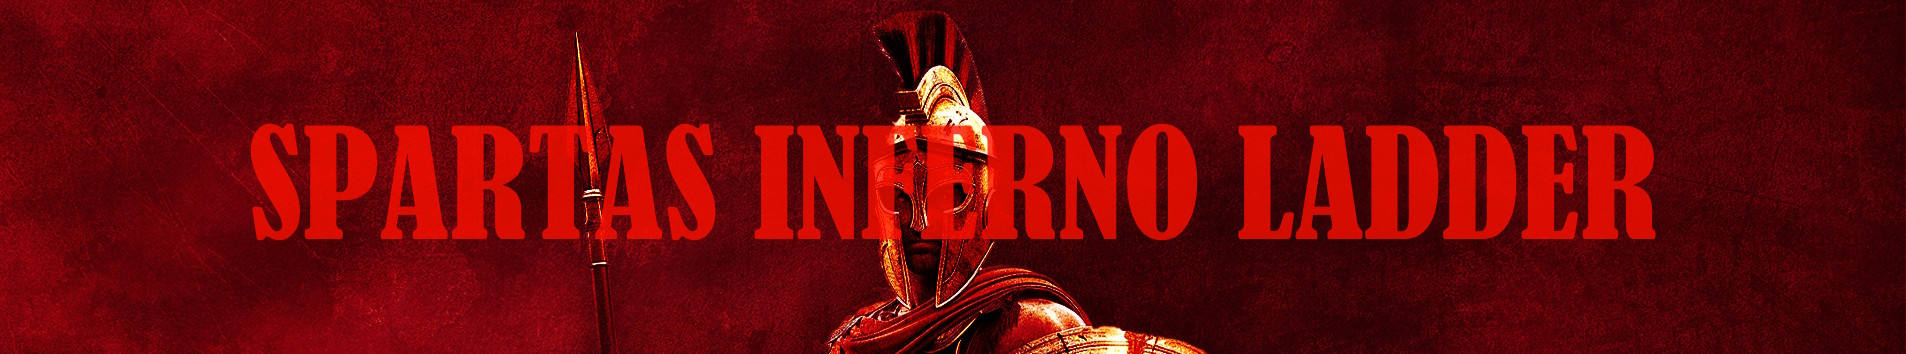
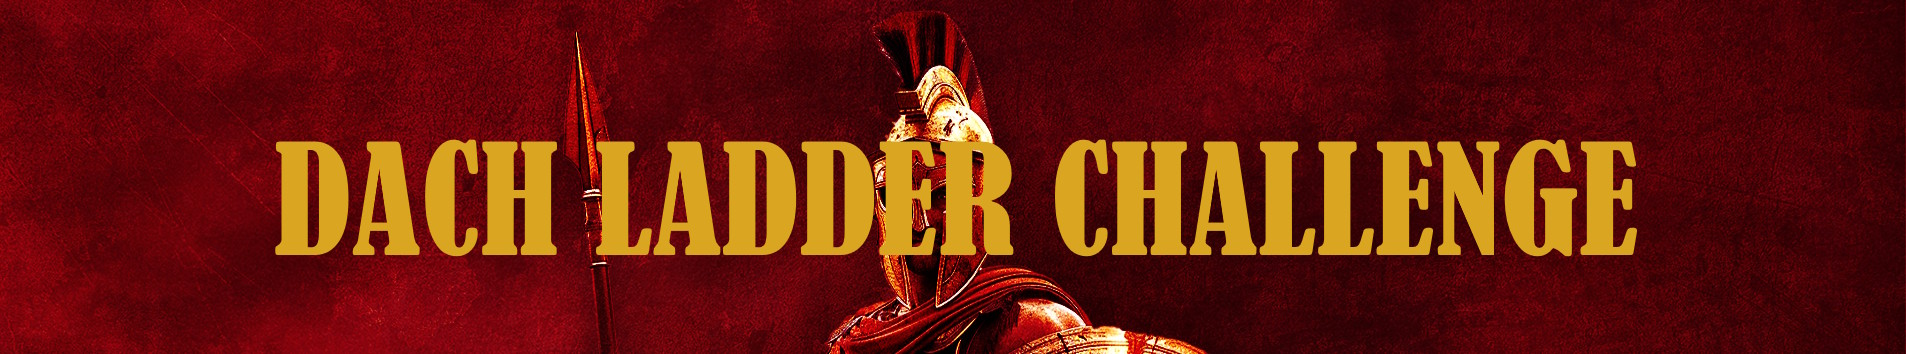
Add dach ladder challenge

Changed region(s): [[0.1238, 0.3418, 0.8667, 0.7458]]

diff --git a/src/views/Events/SpartasInfernoView.vue b/src/views/Events/SpartasInfernoView.vue
@@ -1,18 +1,34 @@
 <script setup lang="ts">
 import logo from "@/assets/events/spartas_inferno.jpg";
 
-import _isNil from "lodash/isNil";
 import VersusBanner from "@/components/events/spartasinferno/SpartasInfernoVersusBanner.vue";
 import VersusChallenger from "@/components/events/spartasinferno/SpartasInfernoVersusChallenger.vue";
 import { onMounted, onUnmounted, ref } from "vue";
-import { raceIcon, raceName } from "@/stores/races.ts";
-import VueCountdown from "@chenfengyuan/vue-countdown";
 import moment from "moment/moment";
 import { useSpartasInfernoStore } from "@/stores/spartasinferno.ts";
 import { v4 as uuidv4 } from "uuid";
 import _orderBy from "lodash/orderBy";
+import MarkdownViewer from "@/components/MarkdownViewer.vue";
 
 const store = useSpartasInfernoStore();
+
+const model = defineModel<string>({
+  default: `
+  ### DACH Ladder Challenge - hosted by Sp4rta // https://www.twitch.tv/sp4rta
+  **DATE : 23.06.2025 - 23.07.2025**
+
+  ### RULES:
+  Every played game (2 minutes min) will add points to your score .
+  Wins = 3 points, Losses = 1 point
+  Points are earned with the race you chose in 1on1 mode .
+
+  ### PRIZE
+  You can win a unique w3c profile picture if you make it to the top 3.
+  If you manage to do at least 20 games in the challenge you are part of the HOLY Giveaway ( Bubblegum Butterfly Tube worth 40€) .
+
+  ### Good luck and let the grind begin!
+  `,
+});
 
 const current = {
   id: uuidv4(),
@@ -230,28 +246,15 @@ onUnmounted(() => {
               alt="SPARTAS W3C LADDER RACE"
               class="mx-auto"
               max-width="1200px" />
-            <div class="text-sm-h4 text-h6 font-weight-bold mt-2">
-              SPARTAS W3C LADDER RACE
-            </div>
             <div>
-              <a
-                href="https://liquipedia.net/warcraft/Warcraft_3_Streamer_Invitational"
-                target="_blank"
-                ><span class="vertical-align:middle"
-                  ><v-icon
-                    icon="mdi-link"
-                    class="mr-1"
-                    style="color: goldenrod"
-                    size="x-small" /></span
-                >Link to Streamer Invitational Tournament</a
-              >
+              <markdown-viewer v-model="model" />
             </div>
           </v-col>
-          <v-col cols="12" class="text-center">
-            <h2 class="py-2 whitespace-wrap">
+          <v-col cols="12" class="text-left">
+            <h3 class="py-2 whitespace-wrap">
               If you are enjoying this ladder event, please consider sponsoring
               my next coffee!
-            </h2>
+            </h3>
             <a href="https://www.buymeacoffee.com/longjacket" target="_blank"
               ><img
                 src="https://img.buymeacoffee.com/button-api/?text=Buy me a coffee&emoji=☕&slug=longjacket&button_colour=FFDD00&font_colour=000000&font_family=Bree&outline_colour=000000&coffee_colour=ffffff"

diff --git a/src/utilities/achievements.ts b/src/utilities/achievements.ts
@@ -1233,14 +1233,14 @@ const spartas_inferno_1 = {
     points: 15,
     icon: "mdi-redhat",
     name: "I am the danger!",
-    description: "Win your first INFERNO game",
+    description: "Win your first game",
   },
   lose_first: {
     id: "lose_first",
     points: 25,
     icon: "mdi-skull",
     name: "When I'm In Command, Every Mission Is A Suicide Mission.",
-    description: "Lose your first INFERNO game",
+    description: "Lose your first game",
   },
   win_streak: {
     id: "win_streak",

diff --git a/src/App.vue b/src/App.vue
@@ -104,10 +104,10 @@ const drawer = ref(!mobile.value);
             to="/events/grubbys-invitational" />
           <v-list-item
             prepend-icon="mdi-fire"
-            title="Spartas Inferno Ladder"
+            title="DACH Ladder Challenge"
             color="orange-lighten-1"
             router
-            to="/events/spartas-inferno" />
+            to="/events/dach-ladder" />
         </v-list-group>
         <v-list-item
           color="green"

diff --git a/src/router/index.ts b/src/router/index.ts
@@ -75,8 +75,8 @@ const router = createRouter({
           component: OnlyFangsView,
         },
         {
-          path: "spartas-inferno",
-          name: "Event: Spartas Inferno W3C Ladder Race",
+          path: "dach-ladder",
+          name: "Event: DACH Ladder Challenge - W3C Ladder Race",
           component: SpartasInfernoView,
         },
       ],
